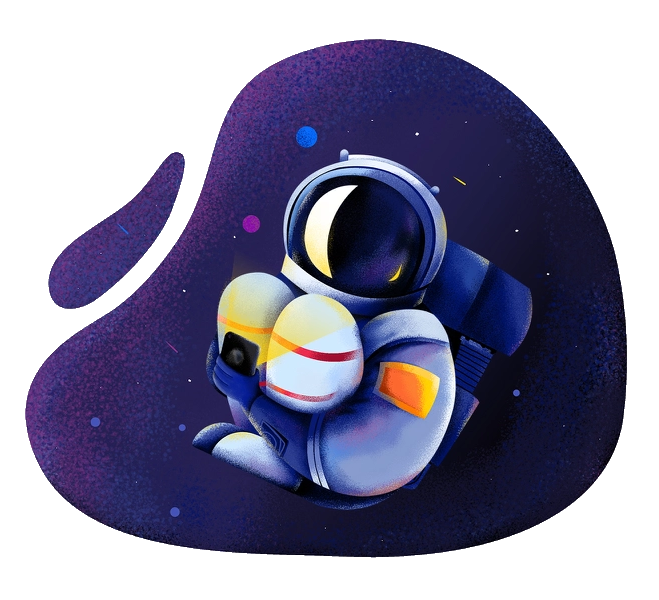
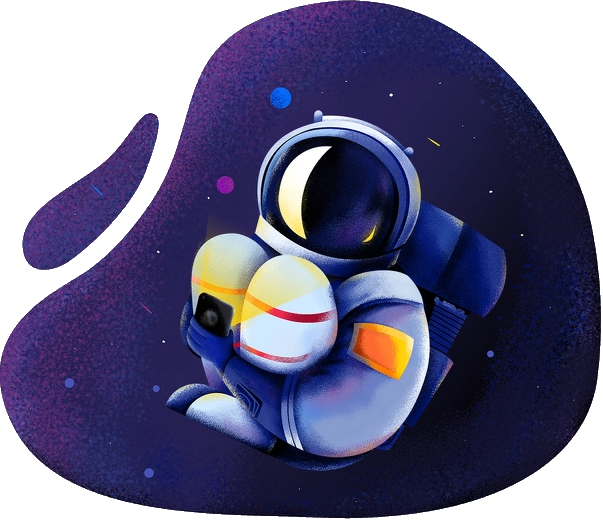
Stilaius koregavimas

diff --git a/main.css b/main.css
@@ -6,7 +6,6 @@ header {
   margin-left: calc((100% - 800px) / 2);
   font-size: 15px;
   text-decoration: none;
-  padding: 10px;
   text-align: right;
   color: #272358;
   }
@@ -17,26 +16,24 @@ main {
   width: 800px;
   display: inline-block;
   margin-left: calc((100% - 800px) / 2);
+  margin-top: 30px;
 }
 
 div {
- width: 46%;
+ width: 40%;
  float: left;
  margin-top: 50px;
-}
-div > a {
-  margin-right: 20px; 
-  padding: 15px;
-  
-}
+ }
+
 img {
-  width: 54%;
+  width: 60%;
   float: right;
   margin-right: 0;
+  margin-top: 30px;
 }
 button{
   border-radius: 40px;
-  padding: 12px 32px;
+  padding: 11px 28px;
   border: 2px solid #272358;
   margin-left: 0;
   float: left;
@@ -45,12 +42,13 @@ button{
 .button1{
   background: #272358; 
   color: #ffffff; 
-  margin-right: 15px;
+  margin-right: 10px;
   
 }
 .button2{
   background: #ffffff; 
-  color: #272358; 
+  color: #272358;
+  margin-right: 10px; 
   
 
 }
@@ -60,7 +58,7 @@ footer {
   margin-left: calc((100% - 800px) / 2);
   margin-top: 60px;
   }
-footer > a {
+footer a {
   padding: 15px;
   color: grey;
   
@@ -68,9 +66,15 @@ footer > a {
 }
 h1 {
   font-weight: normal;
-  font-size: 45px;
+  font-size: 40px;
   margin: 0;
+  margin-top: 20px;
   }
 a {
   text-decoration: none;
   }
+p {
+  color: #272358; 
+  font-size: 14px;
+  margin: 3px;
+}

diff --git a/index.html b/index.html
@@ -19,11 +19,14 @@
   <main>
     <div>
       <h1> 404</h1>
-      <p style="font-weight:bold; font-size: 51px; margin-top: 0">Lost in Space</p>
-      <p style="color: #272358">You have reached the edge of the universe.<br>The page you requested could not be found<br>Don't worry and return to the previous page</p>
+      <p style="font-weight: bold; font-size: 47px; margin-top: 0; margin-bottom: 0; color:black">Lost in Space</p>
+      <hr style="display: inline-block; width: 110px; text-align: left; margin-bottom: 30px;" size="5" color="#272358"></hr>
+      <p>You have reached the edge of the universe.</p>
+      <p>The page you requested could not be found</p>
+      <p>Don't worry and return to the previous page</p>
     </div>
     <img src=./Astronautas.png>
-    <div>
+    <div style="display: inline-block">
       <a style="color: #ffffff" href="#"><button class="button1">GO HOME</button1></a>
       <a style="color: #272358" href="#"><button class="button2">BACK</button2></a>
     </div>
